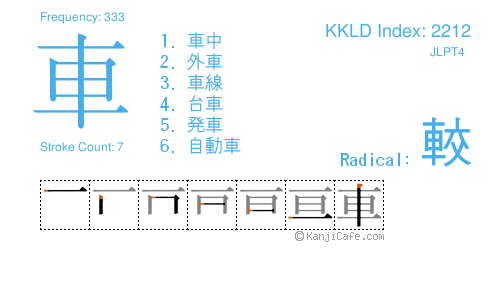
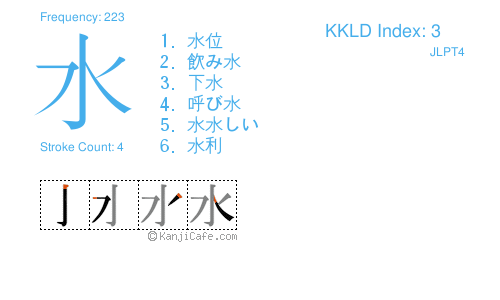
Started on the backside and frontside is done

diff --git a/flcm.py b/flcm.py
@@ -11,24 +11,67 @@ try:
 except ImportError:
   raise SystemExit("You need lxml to run this app!")
 
-
 sodPath = 'dictionaries/sod-utf8/'
 fontSerif = '/usr/share/fonts/truetype/kochi/kochi-mincho.ttf'
 fontSanSerif = '/usr/share/fonts/truetype/kochi/kochi-gothic.ttf'
 fontSmall = '/usr/share/fonts/truetype/freefont/FreeSans.ttf'
 
 def makeCards(inKanji):
+
+  #start pull words from jmdic and get 6 example compounds
+  kanji = re.compile(u'%s' % inKanji, re.UNICODE)
+  jmdicInfo = jmdic(inKanji)
+  commonWords = []
+  commonWordsTrans = []
+  commonWordsChoice = []
+  duplicate = 0
+
+  for entry in jmdicInfo:
+    for elem in entry.iter('ke_pri'):
+      if((elem.text == 'ichi1' or elem.text == 'news1' or elem.text == 'spec1' or elem.text == 'gai1')):
+        for tag in entry.iter('keb'):
+          if(re.search(kanji, tag.text)):
+            for words in commonWords:
+              duplicate = 0
+              if(words == tag.text):
+                duplicate = 1
+            if(duplicate != 1):
+              commonWords.append(tag.text)
+              temp = []
+              for gloss in entry.iter('gloss'):
+                temp.append(gloss.text)
+              commonWordsTrans.append(temp)
+  i = 0
+  if(len(commonWords) > 6):
+    words = 6
+    while i < words:
+      rand = random.randint(0, len(commonWords)-1)
+      for rands in commonWordsChoice:
+        duplicate = 0
+        if(rands == rand):
+          duplicate = 1
+      
+      while duplicate == 1:
+        rand = random.randint(0, len(commonWords)-1)
+      commonWordsChoice.append(rand)
+      i=i+1
+  else:
+    words = len(commonWords)
+    while i < words:
+      commonWordsChoice.append(i)
+      i=i+1
+
   f = 0
-  makeFront(inKanji)
+  makeFront(inKanji, commonWordsChoice, commonWords)
   print str(f+1)+' : Front Done'
   b = 0
-  makeBack(inKanji)
+  makeBack(inKanji, commonWordsChoice, commonWordsTrans)
   print str(b+1)+' : Back Done'
   f = f+1
   b = b+1
   return
 
-def makeFront(inKanji):
+def makeFront(inKanji, commonWordsChoice, commonWords):
   kanji = re.compile(u'%s' % inKanji, re.UNICODE)
   card = Image.new('RGB', (500, 300), (255,255,255))
   draw = ImageDraw.Draw(card)
@@ -42,7 +85,6 @@ def makeFront(inKanji):
   kodanshaIndex = ''
   jlptIndex = ''
   strokeC = ''
-  radIndex = ''
   freq = ''
   for character in kanjiInfo:
     for kodIndex in character.iter('dic_ref'):
@@ -52,9 +94,6 @@ def makeFront(inKanji):
       jlptIndex = jlptInd.text
     for sCount in character.iter('stroke_count'):
       strokeC = sCount.text
-    for radInd in character.iter('rad_value'):
-      if(radInd.get('rad_type') == 'classical'):
-        radIndex = radInd.text
     for frq in character.iter('freq'):
       freq = frq.text
   
@@ -73,65 +112,38 @@ def makeFront(inKanji):
     print e
     draw.text((40,180), 'No Stroke Order Diagram Image', font=font, fill=(255,0,0))
   
-  #start pull words from jmdic and get 6 example compounds
-  jmdicInfo = jmdic(inKanji)
-  commonWords = []
-  commonWordsChoice = []
-  duplicate = 0
-
-  for entry in jmdicInfo:
-    for elem in entry.iter('ke_pri'):
-      if((elem.text == 'ichi1' or elem.text == 'news1' or elem.text == 'spec1' or elem.text == 'gai1')):
-        for tag in entry.iter('keb'):
-          if(re.search(kanji, tag.text)):
-            for words in commonWords:
-              duplicate = 0
-              if(words == tag.text):
-                duplicate = 1
-            if(duplicate != 1):
-              commonWords.append(tag.text)
-  
+  #draw compunds
   font = ImageFont.truetype(fontSanSerif, 18)
   i = 0
-  if(len(commonWords) > 6):
-    words = 6
-    while i < words:
-      rand = random.randint(0, len(commonWords)-1)
-      for rands in commonWordsChoice:
-        duplicate = 0
-        if(rands == rand):
-          duplicate = 1
-      
-      while duplicate == 1:
-        rand = random.randint(0, len(commonWords)-1)
-      commonWordsChoice.append(rand)
-      draw.text((160, 21*(i+1)+10), str(i+1)+'. '+commonWords[rand], font=font, fill=(69,174,235))
-      i=i+1
-  else:
-    words = len(commonWords)
-    while i < words:
-      draw.text((160, 21*(i+1)+10), str(i+1)+'. '+commonWords[i], font=font, fill=(69,174,235))
-      i=i+1
-  #get that radical!
-  radInfo = radfile(radIndex)
-  if(len(radInfo) > 0):
-    draw.text((340, 150), 'Radical: ', font=font, fill=(69,174,235))
-    font = ImageFont.truetype(fontSanSerif, 52)
-    draw.text((420, 115), radInfo, font=font, fill=(69,174,235))
+  while i < len(commonWordsChoice):
+    draw.text((160, 21*(i+1)+10), str(i+1)+'. '+commonWords[commonWordsChoice[i]], font=font, fill=(69,174,235))
+    i = i+1
     
   card.save('cards/testfront.png')
   return
 
-def makeBack(inKanji):
+def makeBack(inKanji, commonWordsChoice, commonWordsTrans):
   card = Image.new('RGB', (500, 300), (255,255,255))
   draw = ImageDraw.Draw(card)
   kanjiInfo = kanjidic(inKanji)
   on = []
   kun = []
   english = []
-  #for li in kanjiInfo:
-      #on.append([x for x in li.split(' ') if is_on(x[0])][0])
-  #print on
+  
+  #draw compunds
+  font = ImageFont.truetype(fontSmall, 14)
+  i = 0
+  while i < len(commonWordsChoice):
+    draw.text((20, 100+(21*(i+1))), str(i+1)+'.', font=font, fill=(69,174,235))
+    j = 0
+    while j < len(commonWordsTrans[commonWordsChoice[i]]):
+      pos = 0
+      for gloss in commonWordsTrans[commonWordsChoice[i]]:
+        draw.text((40+pos, 100+(21*(i+1))), gloss+'; ', font=font, fill=(69,174,235))
+        pos = pos + (len(gloss)*14)
+      j = j+1
+    i = i+1
+  
   card.save('cards/testback.png')
   return
 
@@ -220,7 +232,6 @@ def is_on(reading):
 def is_kun(reading):
   return not (is_latin(reading) or is_on(reading))
 
-inKanji = u'車'.strip()
-i = 0
+inKanji = u'水'.strip()
 
 makeCards(inKanji)

diff --git a/radDic.py b/radDic.py
@@ -13,11 +13,12 @@ except ImportError:
 
 def kanxiRadDic(radicalList):
   newDic = open('classicalRad', 'w')
+  kanjidicRadList = kanjidic2rads()
   listNewDic = []
   i = 0
 
   while i < 214:
-    kanjiList = kanjidic2kanxi(str(i+1), radicalList)
+    kanjiList = kanjidic2kanxi(str(i+1), radicalList, kanjidicRadList)
     for kanji in kanjiList:
       for character in kanjiList:
         for kanxi in character.iter('rad_value'):
@@ -26,34 +27,38 @@ def kanxiRadDic(radicalList):
               for char in character:
                 for literal in char.iter('literal'):
                     newDic.write(literal.text.encode('utf_8')+'\n')
-                    print str(i+1)+' '+literal.text+' : Done'
+                    print literal.text+' : Done!'
                     i=i+1
 
   newDic.close()
   return
-
-def kanjidic2kanxi(kanxiNum, radicalList):
-  kanxiRe = re.compile(u'^%s$' % kanxiNum, re.UNICODE)
-  kanxiHit = []
+def kanjidic2rads():
   kanjidic2 = etree.parse('dictionaries/kanjidic2.xml')
   root = kanjidic2.getroot()
-
+  
+  radList = []
   for character in root:
     for literal in character.iter('literal'):
       i = 0
       while i < 214:
-        print literal.text.strip()+' == '+radicalList[i][2].strip()
         if(literal.text.strip() == radicalList[i][2].strip()):
-          for kanxi in character.iter('rad_value'):
-            if(kanxi.get('rad_type') == 'classical'):
-              print 'Found the radical!'
-              if(re.search(kanxiRe, kanxi.text)):
-                kanxiHit.append(character)
-                return kanxiHit
-              else:
-                i = i+1
+          print str(i+1)+' : Found radical '+literal.text.strip()+', appending it to list!'
+          radList.append(character)
         else:
           i = i+1
+        i = i+1
+  print len(radList)
+  return radList
+def kanjidic2kanxi(kanxiNum, radicalList, kanjidicRadList):
+  kanxiRe = re.compile(u'^%s$' % kanxiNum, re.UNICODE)
+  kanxiHit = []
+  for character in kanjidicRadList:
+    for kanxi in character.iter('rad_value'):
+      if(kanxi.get('rad_type') == 'classical'):
+        if(re.search(kanxiRe, kanxi.text)):
+          kanxiHit.append(character)
+          print kanxiNum + ' / 214'
+          return kanxiHit
   
   return kanxiHit
 
